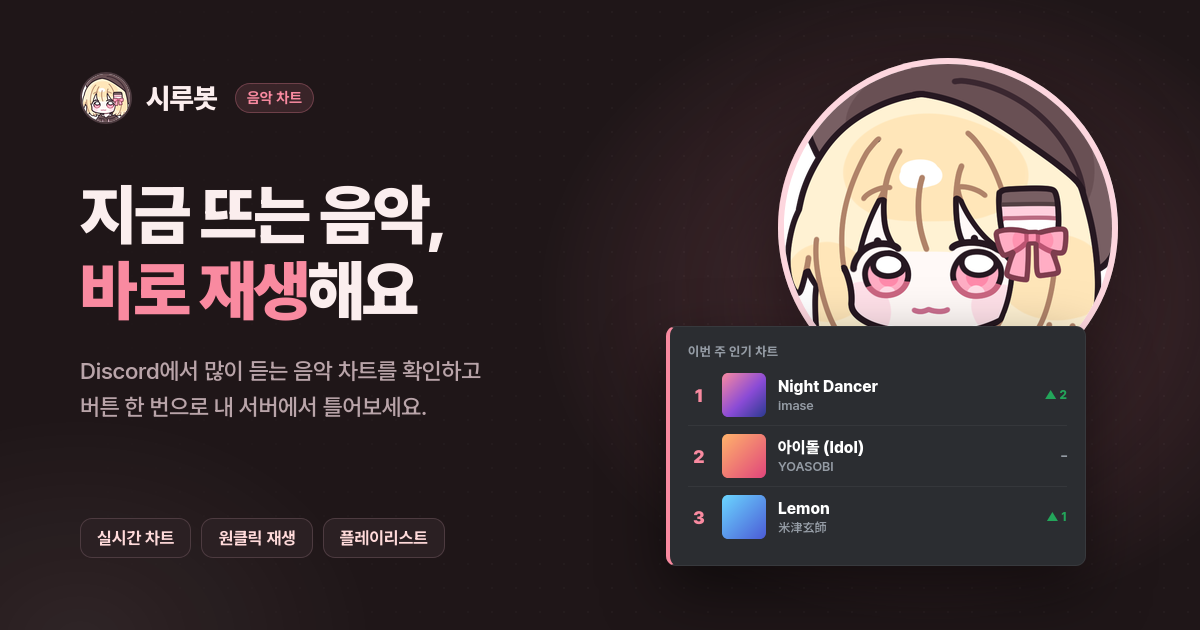
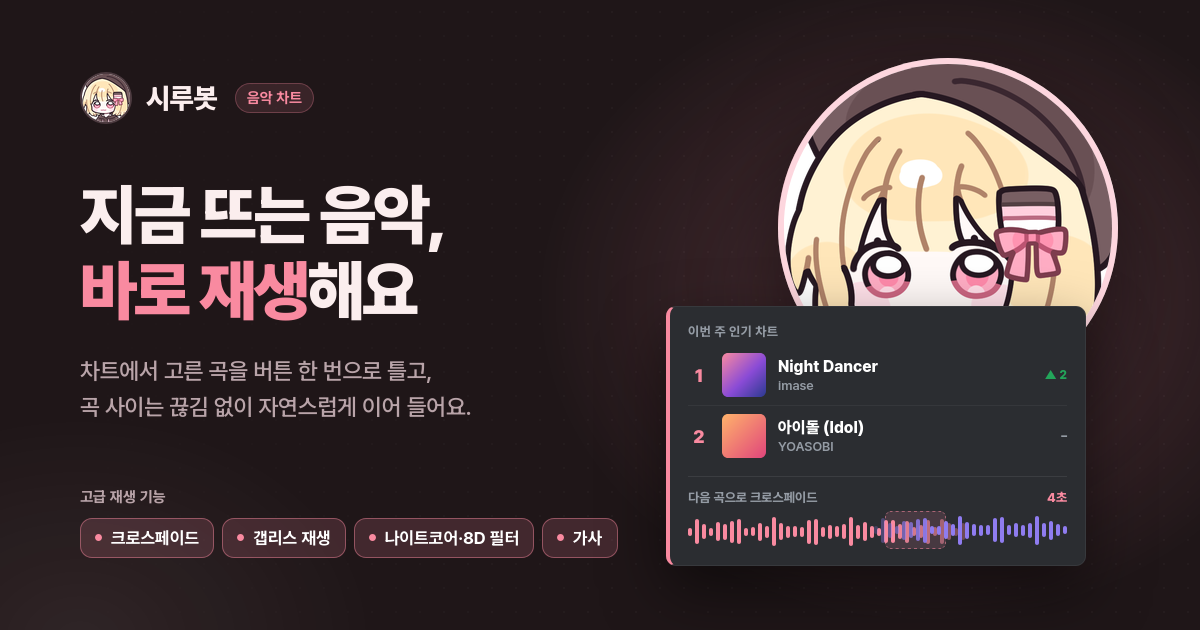
feat: 음악 차트 OG·임베드에 크로스페이드 등 고급 재생 기능 강조

diff --git a/apps/dashboard/src/lib/discord-embed.ts b/apps/dashboard/src/lib/discord-embed.ts
@@ -128,11 +128,16 @@ export function getDiscordEmbedInput(name: string, base: string): DiscordEmbedIn
 			return {
 				eyebrow: "음악 차트",
 				title: "지금 뜨는 음악, 바로 재생해요",
-				description: "Discord에서 많이 듣는 음악 차트를 확인하고 버튼 한 번으로 내 서버에서 틀어보세요.",
+				description: "차트에서 고른 곡을 버튼 한 번으로 틀고, 곡 사이는 끊김 없이 자연스럽게 이어 들어요.",
 				url: `${base}/track`,
 				thumbnailUrl,
 				imageUrl: `${base}${OG_IMAGES.track.url}`,
 				imageAlt: OG_IMAGES.track.alt,
+				highlights: [
+					"🎚 **크로스페이드·갭리스** 곡과 곡 사이를 매끄럽게",
+					"🎛 **필터 프리셋** 베이스부스트·나이트코어·8D·노래방",
+					"📝 **가사** 듣고 있는 곡 가사 바로 보기"
+				],
 				buttons: [{ ...chart, label: "차트 보기" }, invite, dashboard]
 			};
 		default:

diff --git a/apps/dashboard/src/app/track/layout.tsx b/apps/dashboard/src/app/track/layout.tsx
@@ -7,7 +7,7 @@ import { OG_IMAGES, socialMetadata } from "@/lib/site-metadata";
 export const metadata: Metadata = {
   title: "음악 차트",
   description: "Discord에서 인기 있는 음악 차트를 확인하고 바로 재생해요.",
-  ...socialMetadata({ title: "지금 뜨는 음악, 바로 재생해요", description: "Discord에서 많이 듣는 음악 차트를 확인하고 버튼 한 번으로 내 서버에서 틀어보세요.", path: "/track", image: OG_IMAGES.track }),
+  ...socialMetadata({ title: "지금 뜨는 음악, 바로 재생해요", description: "차트에서 고른 곡을 바로 틀고, 크로스페이드·갭리스 재생과 필터 프리셋으로 더 매끄럽게 들어요.", path: "/track", image: OG_IMAGES.track }),
 };
 
 export default function TrackLayout({ children }: { children: ReactNode }) {
